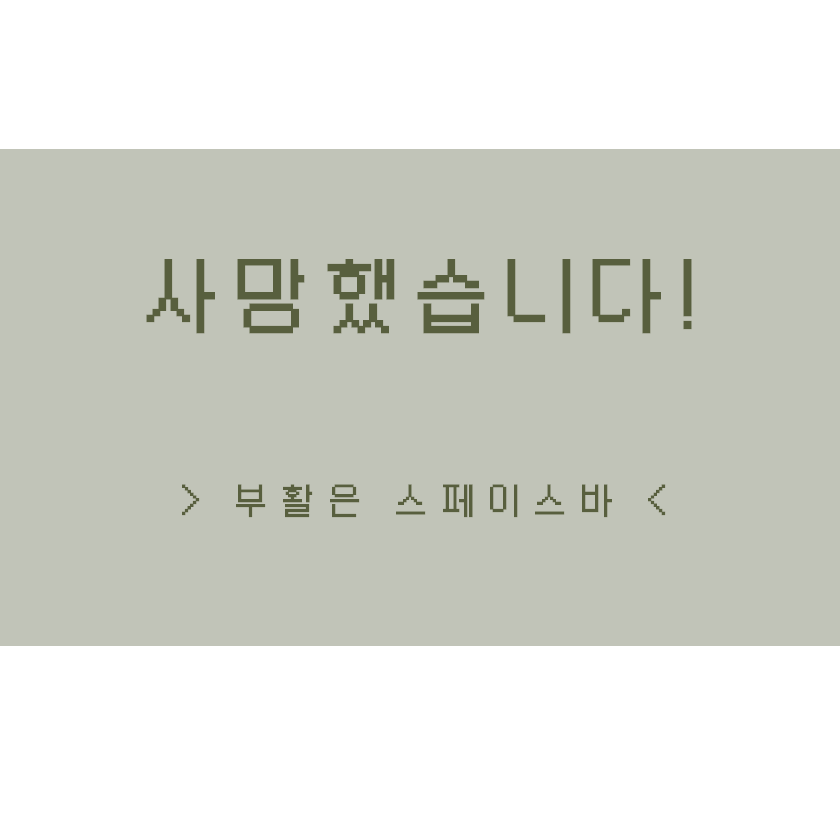
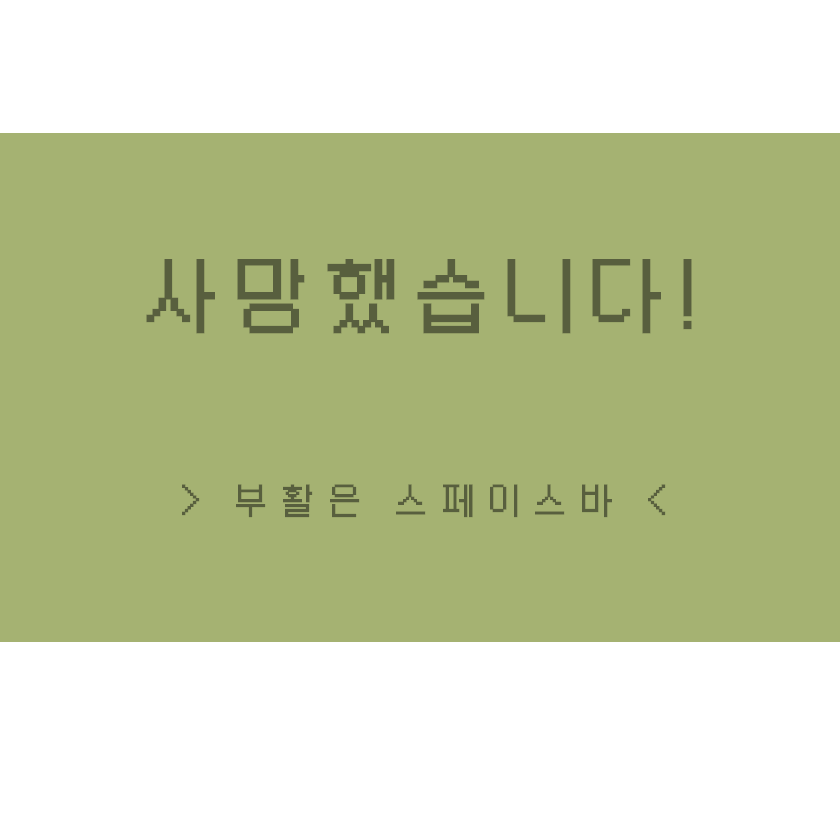
리스폰 구현

diff --git a/SERVER/Tem_server/Tem_server/SESSION.cpp b/SERVER/Tem_server/Tem_server/SESSION.cpp
@@ -24,6 +24,13 @@ void SESSION::do_recv()
 	WSARecv(_socket, &_recv_over._wsabuf, 1, 0, &recv_flag, &_recv_over._over, 0);
 }
 
+short SESSION::hp_change(short hp_c)
+{
+	hp = hp + hp_c;
+
+	return clamp(int(hp), 0, int(max_hp));
+}
+
 void SESSION::do_send(void* packet)
 {
 	OVER_PLUS* sdata = new OVER_PLUS{ reinterpret_cast<char*>(packet) };
@@ -140,6 +147,15 @@ void SESSION::send_change_map_packet(int x, int y, char what)
 	p.y = y;
 	p.what = what;
 	p.type = SC_CHANGE_MAP;
+	p.size = sizeof(p);
+	do_send(&p);
+}
+
+void SESSION::send_respawn_packet(int c_id)
+{
+	SC_RESPAWN_PACKET p;
+	p.id = c_id;
+	p.type = SC_RESPAWN;
 	p.size = sizeof(p);
 	do_send(&p);
 }

diff --git a/SERVER/Tem_server/Tem_server/SESSION.h b/SERVER/Tem_server/Tem_server/SESSION.h
@@ -14,7 +14,7 @@ public:
 	SOCKET								_socket;
 	short								x, y;
 	char								dir;
-	int									hp, max_hp;
+	short								hp, max_hp;
 	char								_name[NAME_SIZE];
 	int									_prev_remain;
 	unordered_set <int>					_view_list;
@@ -28,6 +28,7 @@ public:
 	~SESSION();
 
 	void do_recv();
+	short hp_change(short hp);
 
 	void do_send(void* packet);
 	void send_login_info_packet();
@@ -39,6 +40,7 @@ public:
 	void send_chat_packet(int c_id, const char* mess);
 	void send_remove_player_packet(int c_id);
 	void send_change_map_packet(int x, int y, char what);
+	void send_respawn_packet(int c_id);
 };
 
 

diff --git a/SERVER/Tem_server/Tem_server/stdafx.h b/SERVER/Tem_server/Tem_server/stdafx.h
@@ -6,6 +6,7 @@
 #include <thread>
 #include <vector>
 #include <mutex>
+#include <algorithm>
 #include <unordered_set>
 #include <concurrent_priority_queue.h>
 #include "../../../CLIENT/protocol.h"
